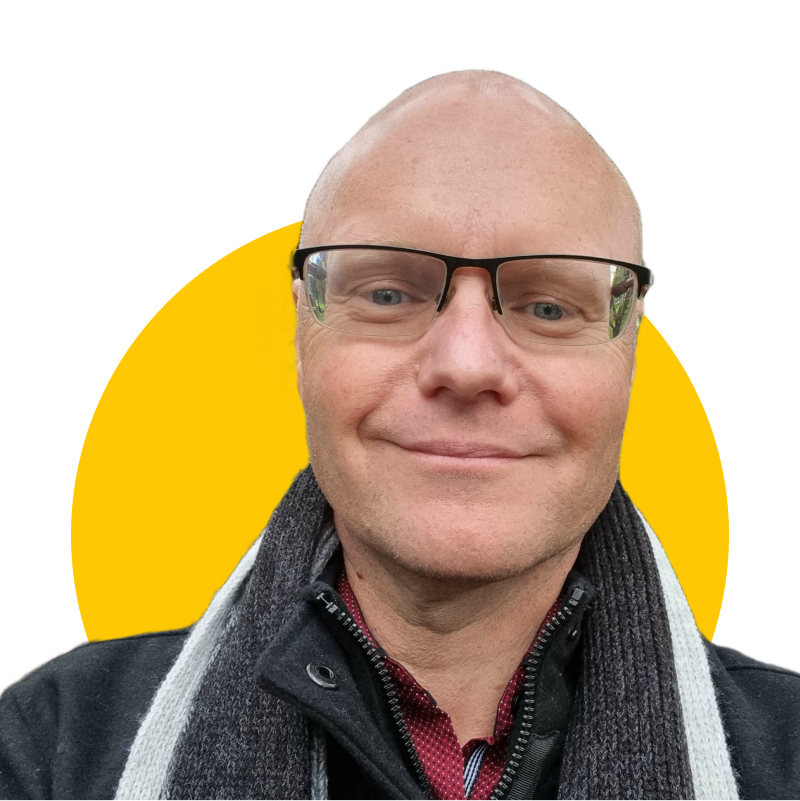
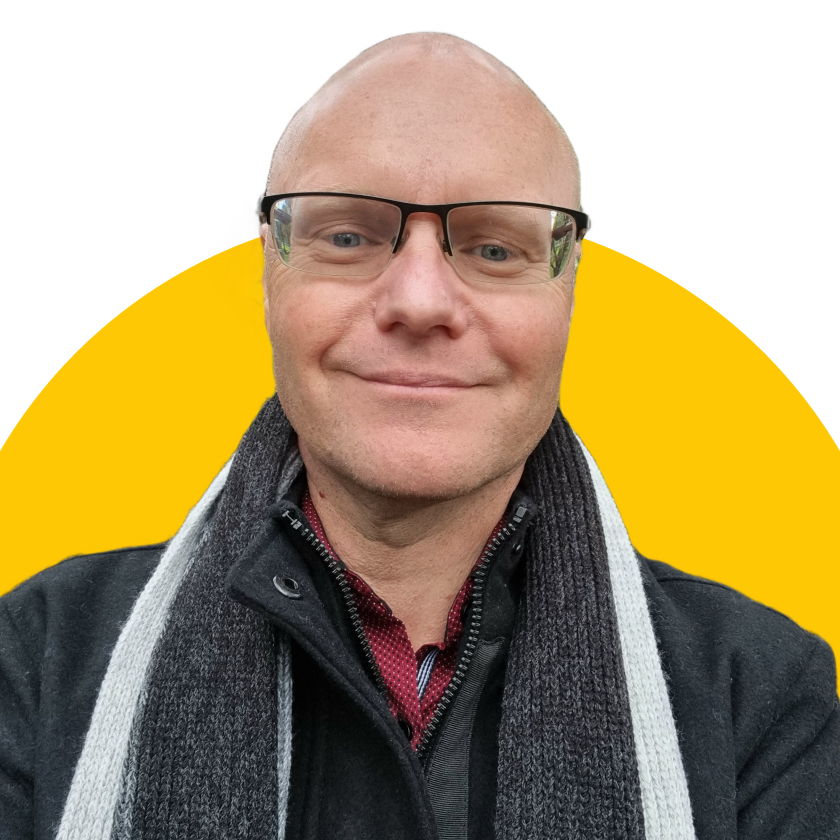
Improve the layout and content of the Development Process cards

diff --git a/src/pages/About.jsx b/src/pages/About.jsx
@@ -8,6 +8,7 @@ import profileImage from "../assets/profile-picture.png";
 import aboutDesign from "../assets/about-page-design.png";
 import aboutBuild from "../assets/about-page-vscode.png";
 import aboutDeploy from "../assets/about-page-react.png";
+import reactLogo from "../assets/dev-logo-react.png";
 import skills from "../utilities/skills";
 
 const About = () => {
@@ -33,20 +34,19 @@ const About = () => {
             <p className="text-base text-[#C9C9C9] font-normal text-pretty tracking-wide p-4">
               I have been a web developer for the last two years. My central
               focus is building web apps that engage the user and provide them
-              with an impacting user experience. Moving away from static
-              designs, my approach involves incorporating user interaction,
-              subtle animation and clear navigation and enable the user to
-              complete the task required. <br /> <br />I design, build and
-              deploy creative web apps using React JS, Tailwind CSS and Framer
-              Motion. My Bachelor Degree in Computer Science enables me to apply
-              programming principles toward the completion of personal projects.
+              with an impacting user experience. My approach involves
+              incorporating user interaction, subtle animation and clear
+              navigation. <br /> <br />I design, build and deploy creative web
+              apps using React JS, Tailwind CSS and Framer Motion. My Bachelor
+              Degree in Computer Science enables me to apply programming
+              principles toward the completion of personal projects.
             </p>
           </div>
           <motion.img
             initial={{ x: 100, opacity: 0 }}
             whileInView={{ x: 0, opacity: 1 }}
             transition={{ duration: 2, delay: 1, ease: easeInOut }}
-            className="flex flex-shrink-0 justify-end items-center rounded-full w-3/4 object-cover sm:w-80 mx-10"
+            className="flex flex-shrink-0 justify-center items-center w-3/4 object-contain sm:w-80 mx-10"
             src={profileImage}
             alt="Profile Image"
           />
@@ -58,7 +58,7 @@ const About = () => {
           {skills.map((item) => (
             <li
               key={item.id}
-              className="flex flex-col w-[6em] h-[6em] justify-center items-center rounded-lg text-[#101824] font-semibold hover:scale-90 hover:bg-yellow-400 p-2"
+              className="flex flex-col w-[6em] h-[6em] justify-center items-center rounded-lg text-[#101824] font-semibold hover:scale-90 p-2"
             >
               {item.icon} {item.heading}
             </li>
@@ -69,12 +69,13 @@ const About = () => {
         <h1 className="w-4/6 text-3xl text-[#C9C9C9] text-center font-normal mt-10">
           My Development Process
         </h1>
-        <div className="w-full flex flex-col lg:flex-row justify-center gap-5 items-center p-2">
+        <div className="w-10/12 flex flex-col lg:flex-row justify-center gap-8 items-center p-2">
           <div className="w-72 h-[28em] sm:w-1/4 flex flex-col shadow-lg shadow-black my-10 hover:scale-105">
-            <h1 className="bg-[#C9C9C9]  text-3xl text-[#101824] text-center uppercase font-bold py-2">
+            <h1 className="text-3xl text-[#C9C9C9] text-center uppercase font-semibold py-2">
               Design
             </h1>
             <motion.div
+              className="flex justify-center"
               initial={{ opacity: 0, x: -20 }}
               whileInView={{
                 opacity: 1,
@@ -84,26 +85,25 @@ const About = () => {
               viewport={{ once: true }}
             >
               <img
-                className="w-72 object-cover object-center"
+                className="w-full object-fill"
                 src={aboutDesign}
                 alt="Portfolio Landing Pages with Figma logo"
               />
             </motion.div>
-            <div className="w-full flex justify-start items-start text-sm text-[#C9C9C9] text-pretty tracking-wide p-5">
+            <div className="w-full flex flex-col justify-start items-start text-sm text-[#C9C9C9] text-pretty tracking-wide p-5">
               <p>
-                The first step in my development process is to produce
-                wireframes, components, design layouts, style guides and
-                prototypes in Figma. Based on the outcome I can make decisions
-                regarding colours, fonts, images layouts and other design
-                elements.
+                Using a mobile first design approach to produce wireframes,
+                components, design layouts, style guides and prototypes in Figma
+                to make design decisions.
               </p>
             </div>
           </div>
           <div className="w-72 h-[28em] sm:w-1/4 flex flex-col shadow-lg shadow-black hover:scale-105 my-10">
-            <h1 className="bg-[#C9C9C9] text-3xl text-[#101824] text-center uppercase font-bold py-2">
+            <h1 className="text-3xl text-[#C9C9C9] text-center uppercase font-semibold py-2">
               Build
             </h1>
             <motion.div
+              className="flex justify-center"
               initial={{ opacity: 0, x: -20 }}
               whileInView={{
                 opacity: 1,
@@ -122,13 +122,15 @@ const About = () => {
               <p>
                 Building in VsCode, React JS, Tailwind CSS and Framer Motion.
               </p>
+              <img src={reactLogo} className="w-20" alt="React Logo" />
             </div>
           </div>
           <div className="w-72 h-[28em] sm:w-1/4 flex flex-col shadow-lg shadow-black hover:scale-105 my-10">
-            <h1 className="bg-[#C9C9C9] text-3xl text-[#101824] text-center uppercase font-bold py-2">
+            <h1 className="text-3xl text-[#C9C9C9] text-center uppercase font-semibold py-2">
               Deploy
             </h1>
             <motion.div
+              className="flex justify-center"
               initial={{ opacity: 0, x: -20 }}
               whileInView={{
                 opacity: 1,
@@ -144,7 +146,10 @@ const About = () => {
               />
             </motion.div>
             <div className="w-full flex justify-start items-start text-sm text-[#C9C9C9] text-pretty tracking-wide p-5">
-              <p>Using Figma, I design wireframes, compnents and protypes</p>
+              <p>
+                Deploy the finshed project using GitHub Actions workflows to
+                automatically trigger with every push command.
+              </p>
             </div>
           </div>
         </div>

diff --git a/src/components/SkillSlider.jsx b/src/components/SkillSlider.jsx
@@ -51,7 +51,7 @@ const SkillSlider = () => {
             className="flex-shrink-0 px-10"
             style={{ width: `${100 / skills.length}%` }}
           >
-            <div className="flex flex-col items-center justify-center h-full text-[#C9C9C9] text-5xl">
+            <div className="flex flex-col items-center justify-center h-full text-[#C9C9C9] text-4xl">
               {skill.icon}
             </div>
           </div>
